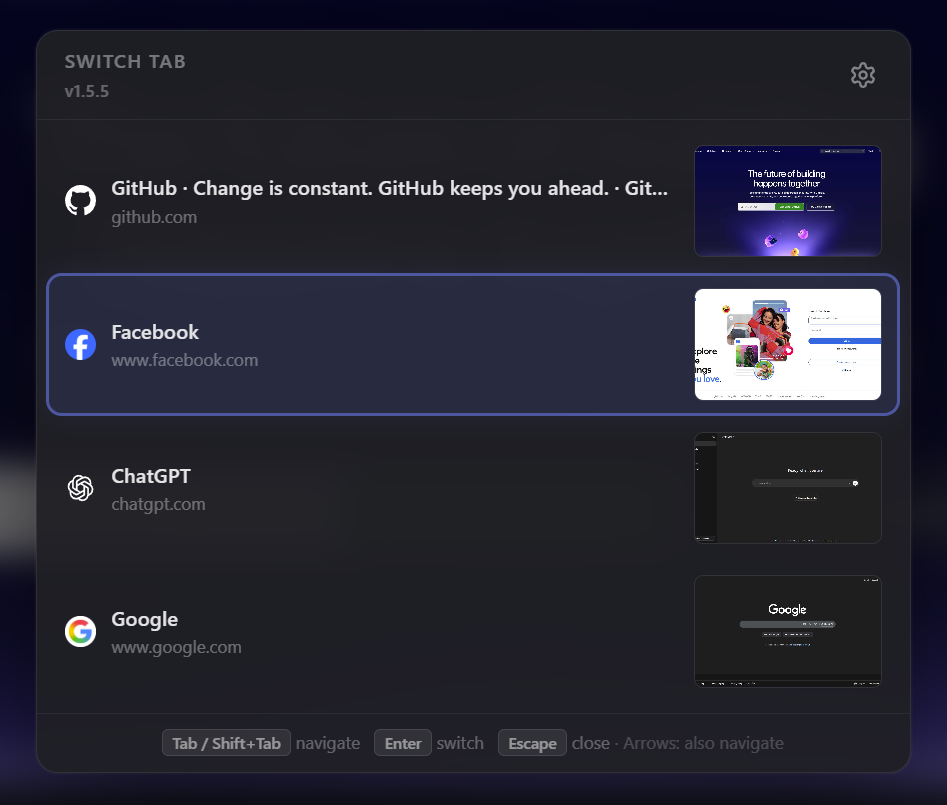
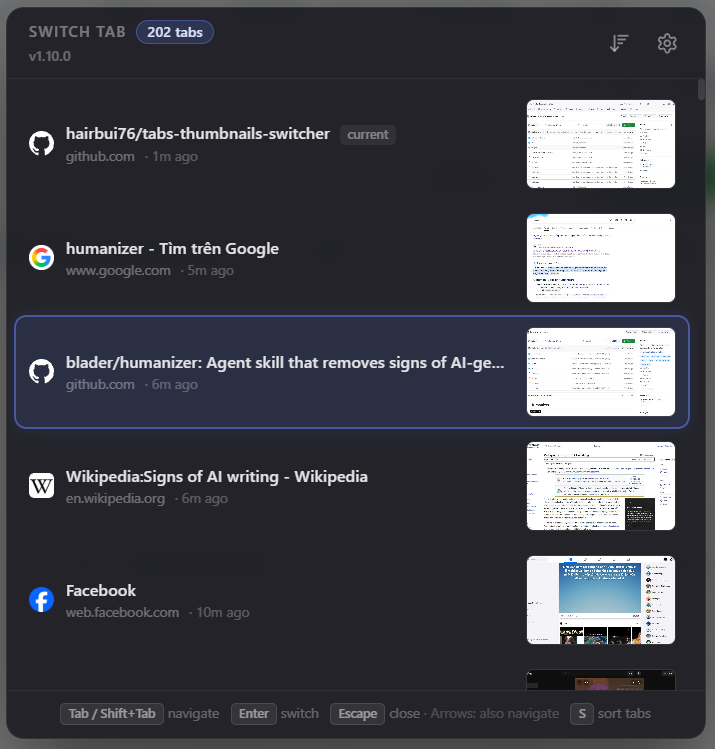
docs: stack the README screenshots one per row
The two screenshots no longer suit a side-by-side table: the overlay
shot is near-square (715x749) while the options shot is now very wide
(1878x801), so a two-column table squeezed the first one. Each image
gets its own row instead.

Captions rewritten to match the refreshed images, which the old ones
no longer described: the overlay now carries a tab-count pill and a
Sort button, and the options page is laid out in two columns.

diff --git a/README.md b/README.md
@@ -4,9 +4,13 @@ A Chrome extension that switches tabs using **most recently used (MRU)** order, 
 
 ## Screenshots
 
-| ![Tab switcher overlay with thumbnails and shortcuts](images/menu_preview.png) | ![Extension options: overlay keys, Ctrl+Tab note, about](images/options_preview.png) |
-| :---: | :---: |
-| *Figure 1 — Tab switcher overlay: MRU-ordered tabs with thumbnails, version under the title, settings gear, and keyboard hints.* | *Figure 2 — Options page: debug logging toggle, overlay navigation keys, Ctrl+Tab advanced console snippet, and about metadata.* |
+![Tab switcher overlay: MRU-ordered tabs with thumbnails, a tab-count pill, and Sort and settings buttons](images/menu_preview.png)
+
+*Figure 1 — Tab switcher overlay. The tab-count pill and version sit beside the title, Sort and settings top right. Each row carries a favicon, title, domain and last-visit stamp, and a thumbnail; the current tab is tagged and the selection is outlined. Keyboard hints run along the bottom.*
+
+![Options page: debug toggle, overlay key bindings, tab count and sort notes, and the advanced Ctrl+Tab snippet](images/options_preview.png)
+
+*Figure 2 — Options page. Left: debug logging toggle, the four rebindable overlay keys, and what the tab count and Sort button do. Right: the advanced Ctrl+Tab console snippet with your extension id filled in.*
 
 ## Installation
 
